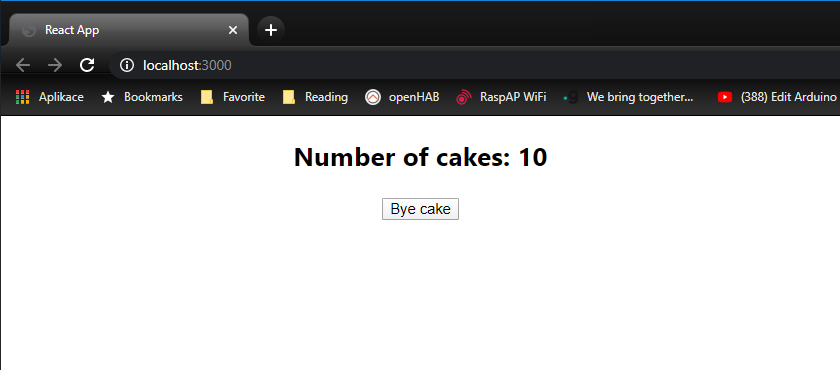
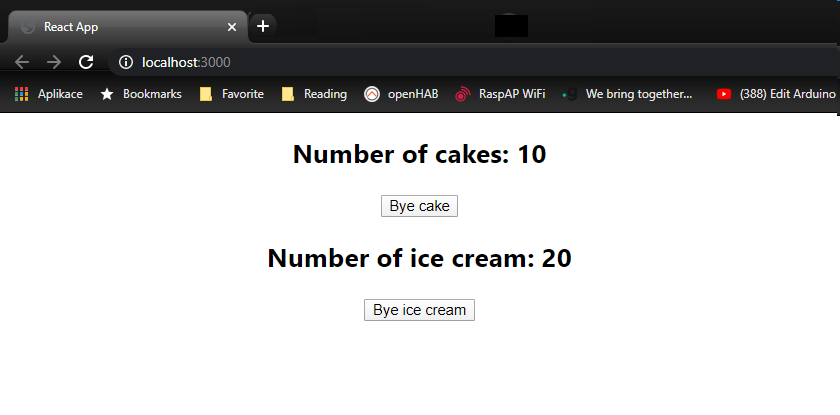
r-redux-hooks-demo: + added documentation

Changed region(s): [[0.0, 0.0, 1.0, 0.6541], [0.4333, 0.7135, 0.5571, 0.773], [0.0, 0.1486, 0.031, 0.1784]]

diff --git a/r-redux-hooks-demo/README.md b/r-redux-hooks-demo/README.md
@@ -1,10 +1,10 @@
 # DESCRIPTION
 
-This project demonstrates simple Redux pattern in React app.
-It implements simple cake shopping app.
+This project demonstrates simple Redux pattern with hooks in React app.
+It implements simple cake / ice cream shopping app.
 It's based on [React video tutorial series](https://www.youtube.com/playlist?list=PLC3y8-rFHvwheJHvseC3I0HuYI2f46oAK)
 
-![Cake shop](screenshots/r-redux-demo.png)
+![Shop](screenshots/r-redux-demo.png)
 
 ![Redux - React relationship](screenshots/react-redux.png)
 
